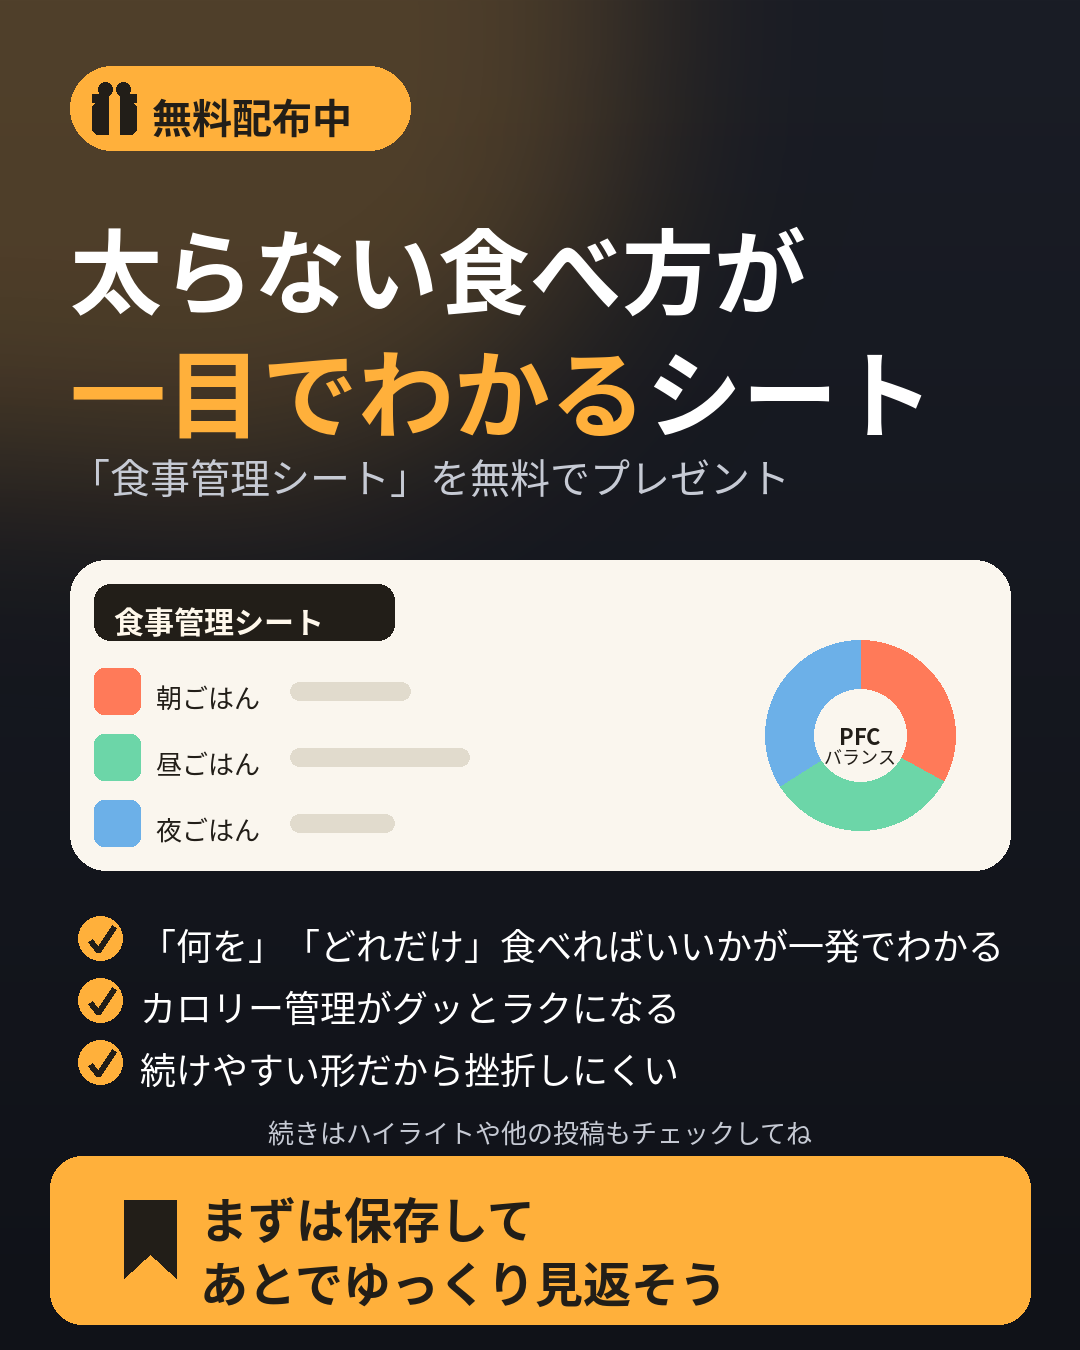
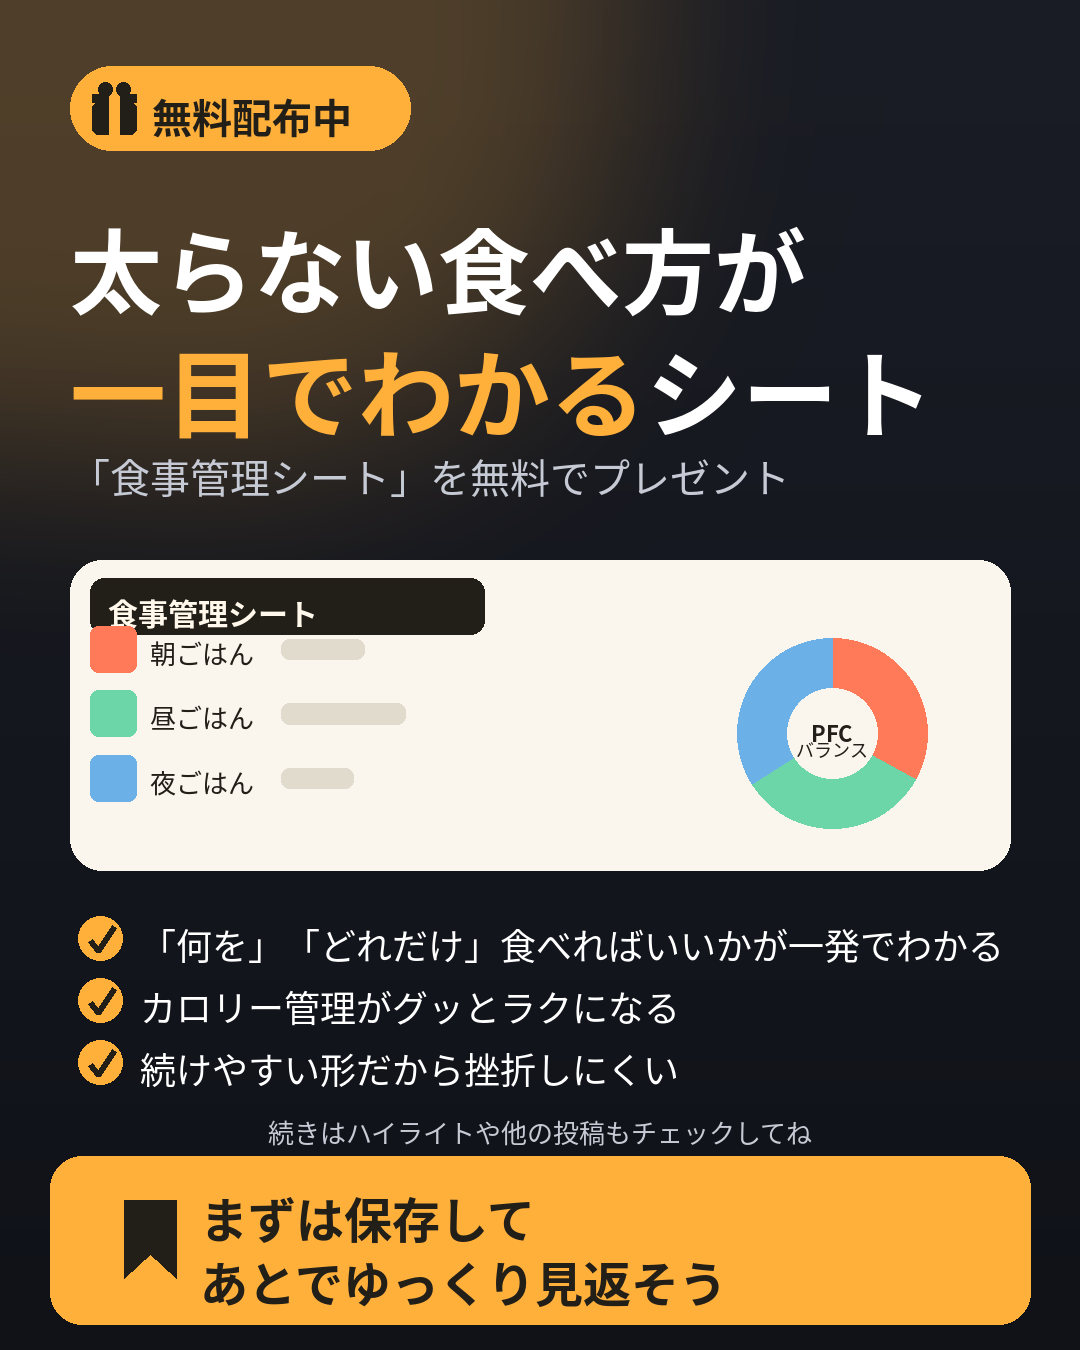
正方形(1080x1080)バージョンを追加
make_design.pyを関数化し、4:5版と正方形版を1つのスクリプトから生成できるようにした。
正方形は縦幅が少ない分、見出し・カード・箇条書きのフォントサイズと行間を詰めてバランスよく収まるよう調整。

Claude-Session: https://claude.ai/code/session_01MBoiF3BLX3zSVFEgM8onNK

Changed region(s): [[0.0611, 0.4044, 0.4583, 0.6533], [0.6722, 0.4667, 0.8861, 0.6222]]

diff --git a/assets/output/make_design.py b/assets/output/make_design.py
@@ -3,11 +3,12 @@
 イクマ - 無料プレゼント(食事管理シート)訴求グラフィック
 プロフィール最上部(固定投稿)用
 トーン: カジュアル・友達感覚 / CTA: 保存を主役に
+
+use: python3 make_design.py
+  4:5 (1080x1350) と 正方形 (1080x1080) の両方を書き出す。
 """
 import math
 from PIL import Image, ImageDraw, ImageFont, ImageFilter
-
-W, H = 1080, 1350
 
 FONT_BOLD = "/usr/share/fonts/opentype/noto/NotoSansCJK-Bold.ttc"
 FONT_REG = "/usr/share/fonts/opentype/noto/NotoSansCJK-Regular.ttc"
@@ -19,7 +20,6 @@ def font(path, size):
 NAVY_TOP = (26, 29, 38)
 NAVY_BOTTOM = (16, 18, 24)
 AMBER = (255, 176, 59)       # soft warm amber (replaces hard gold-foil)
-AMBER_DEEP = (230, 140, 30)
 CREAM = (255, 248, 235)
 WHITE = (255, 255, 255)
 SOFT_GRAY = (198, 202, 212)
@@ -28,25 +28,6 @@ MINT = (108, 214, 168)
 SKY = (108, 176, 232)
 CARD_BG = (250, 246, 238)
 DARK_TEXT = (34, 30, 24)
-
-img = Image.new("RGB", (W, H), NAVY_TOP)
-draw = ImageDraw.Draw(img)
-
-# vertical gradient background
-for y in range(H):
-    t = y / H
-    r = int(NAVY_TOP[0] + (NAVY_BOTTOM[0] - NAVY_TOP[0]) * t)
-    g = int(NAVY_TOP[1] + (NAVY_BOTTOM[1] - NAVY_TOP[1]) * t)
-    b = int(NAVY_TOP[2] + (NAVY_BOTTOM[2] - NAVY_TOP[2]) * t)
-    draw.line([(0, y), (W, y)], fill=(r, g, b))
-
-# soft warm glow top-left (friendly, not aggressive gold streak)
-glow = Image.new("RGBA", (W, H), (0, 0, 0, 0))
-gdraw = ImageDraw.Draw(glow)
-gdraw.ellipse([-300, -350, 700, 550], fill=(255, 176, 59, 60))
-glow = glow.filter(ImageFilter.GaussianBlur(120))
-img.paste(Image.alpha_composite(img.convert("RGBA"), glow).convert("RGB"), (0, 0))
-draw = ImageDraw.Draw(img)
 
 def rounded_rect(d, box, radius, fill=None, outline=None, width=1):
     d.rounded_rectangle(box, radius=radius, fill=fill, outline=outline, width=width)
@@ -60,120 +41,189 @@ def draw_centered(d, cx, y, s, f, fill):
     d.text((cx - w / 2, y), s, font=f, fill=fill)
     return w
 
-# ---------------------------------------------------------------
-# 1) Top badge: "無料配布中" with simple gift icon (flat, drawn)
-# ---------------------------------------------------------------
-badge_x, badge_y, badge_w, badge_h = 70, 66, 340, 84
-rounded_rect(draw, [badge_x, badge_y, badge_x + badge_w, badge_y + badge_h], 42, fill=AMBER)
+def draw_gift_icon(draw, gx, gy):
+    draw.rounded_rectangle([gx - 22, gy - 6, gx + 22, gy + 26], 6, fill=DARK_TEXT)
+    draw.rectangle([gx - 22, gy - 14, gx + 22, gy - 6], fill=DARK_TEXT)
+    draw.rectangle([gx - 5, gy - 14, gx + 5, gy + 26], fill=AMBER)
+    draw.ellipse([gx - 16, gy - 26, gx - 2, gy - 12], fill=DARK_TEXT)
+    draw.ellipse([gx + 2, gy - 26, gx + 16, gy - 12], fill=DARK_TEXT)
 
-# gift icon (simple box + ribbon), drawn flat
-gx, gy = badge_x + 44, badge_y + 42
-draw.rounded_rectangle([gx - 22, gy - 6, gx + 22, gy + 26], 6, fill=DARK_TEXT)
-draw.rectangle([gx - 22, gy - 14, gx + 22, gy - 6], fill=DARK_TEXT)
-draw.rectangle([gx - 5, gy - 14, gx + 5, gy + 26], fill=AMBER)
-draw.ellipse([gx - 16, gy - 26, gx - 2, gy - 12], fill=DARK_TEXT)
-draw.ellipse([gx + 2, gy - 26, gx + 16, gy - 12], fill=DARK_TEXT)
+def draw_bookmark_icon(draw, bx, by2, w=26, h_top=40, h_bottom=38, notch=14):
+    draw.polygon([
+        (bx - w, by2 - h_top), (bx + w, by2 - h_top),
+        (bx + w, by2 + h_bottom), (bx, by2 + notch), (bx - w, by2 + h_bottom)
+    ], fill=DARK_TEXT)
 
-f_badge = font(FONT_BOLD, 40)
-draw.text((badge_x + 82, badge_y + 20), "無料配布中", font=f_badge, fill=DARK_TEXT)
+def draw_meal_card(draw, card_x0, card_y0, card_x1, card_y1,
+                    header_font_size, row_font_size, row_h, row_gap_top,
+                    donut_r, pfc_font_size, pfc_sub_font_size):
+    rounded_rect(draw, [card_x0, card_y0, card_x1, card_y1], 32, fill=CARD_BG)
 
-# ---------------------------------------------------------------
-# 2) Headline (casual, friendly - key words highlighted in amber)
-# ---------------------------------------------------------------
-f_h1 = font(FONT_BOLD, 92)
-f_h2 = font(FONT_BOLD, 96)
+    header_w = int((card_x1 - card_x0) * 0.42)
+    rounded_rect(draw, [card_x0 + 20, card_y0 + 18, card_x0 + 20 + header_w, card_y0 + 18 + header_font_size + 26],
+                 14, fill=(34, 30, 24))
+    f_card_h = font(FONT_BOLD, header_font_size)
+    draw.text((card_x0 + 38, card_y0 + 30), "食事管理シート", font=f_card_h, fill=CREAM)
 
-y = 200
-draw.text((70, y), "太らない食べ方が", font=f_h1, fill=WHITE)
-y += 118
-# highlight "一目でわかる" in amber, "シート" in white
-line2a = "一目でわかる"
-line2b = "シート"
-draw.text((70, y), line2a, font=f_h2, fill=AMBER)
-w2a = text_w(draw, line2a, f_h2)
-draw.text((70 + w2a, y), line2b, font=f_h2, fill=WHITE)
+    row_colors = [CORAL, MINT, SKY]
+    row_labels = ["朝ごはん", "昼ごはん", "夜ごはん"]
+    ry = card_y0 + row_gap_top
+    f_row = font(FONT_REG, row_font_size)
+    swatch = row_h
+    for i, (c, lab) in enumerate(zip(row_colors, row_labels)):
+        rx0 = card_x0 + 20
+        rx1 = rx0 + swatch
+        rounded_rect(draw, [rx0, ry, rx1, ry + swatch], 8, fill=c)
+        draw.text((rx1 + 14, ry + swatch * 0.15), lab, font=f_row, fill=DARK_TEXT)
+        bar_x0 = rx1 + int(row_font_size * 5.6)
+        bar_w = int(row_font_size * 3.2 + row_font_size * 1.6 * math.sin(i * 1.7))
+        rounded_rect(draw, [bar_x0, ry + swatch * 0.28, bar_x0 + max(row_font_size * 2, bar_w), ry + swatch * 0.72],
+                     8, fill=(225, 219, 205))
+        ry += swatch + row_gap_top * 0.28
 
-f_sub = font(FONT_REG, 40)
-y += 128
-draw.text((70, y), "「食事管理シート」を無料でプレゼント", font=f_sub, fill=SOFT_GRAY)
+    cx, cy, r = card_x1 - int((card_x1 - card_x0) * 0.19), card_y0 + int((card_y1 - card_y0) * 0.56), donut_r
+    donut_colors = [CORAL, MINT, SKY]
+    donut_vals = [0.33, 0.33, 0.34]
+    start = -90
+    for c, v in zip(donut_colors, donut_vals):
+        end = start + 360 * v
+        draw.pieslice([cx - r, cy - r, cx + r, cy + r], start, end, fill=c)
+        start = end
+    inner = int(r * 0.48)
+    draw.ellipse([cx - inner, cy - inner, cx + inner, cy + inner], fill=CARD_BG)
+    f_pfc = font(FONT_BOLD, pfc_font_size)
+    draw_centered(draw, cx, cy - pfc_font_size * 0.75, "PFC", f_pfc, DARK_TEXT)
+    draw_centered(draw, cx, cy + pfc_font_size * 0.15, "バランス", font(FONT_REG, pfc_sub_font_size), DARK_TEXT)
 
-# ---------------------------------------------------------------
-# 3) Visual mock card (flat, friendly infographic - not dark dashboard)
-# ---------------------------------------------------------------
-card_x0, card_y0, card_x1, card_y1 = 70, 560, 1010, 870
-rounded_rect(draw, [card_x0, card_y0, card_x1, card_y1], 36, fill=CARD_BG)
+def base_canvas(W, H):
+    img = Image.new("RGB", (W, H), NAVY_TOP)
+    draw = ImageDraw.Draw(img)
+    for y in range(H):
+        t = y / H
+        r = int(NAVY_TOP[0] + (NAVY_BOTTOM[0] - NAVY_TOP[0]) * t)
+        g = int(NAVY_TOP[1] + (NAVY_BOTTOM[1] - NAVY_TOP[1]) * t)
+        b = int(NAVY_TOP[2] + (NAVY_BOTTOM[2] - NAVY_TOP[2]) * t)
+        draw.line([(0, y), (W, y)], fill=(r, g, b))
 
-# card header bar
-rounded_rect(draw, [card_x0 + 24, card_y0 + 24, card_x0 + 24 + 300, card_y0 + 24 + 56], 16, fill=(34, 30, 24))
-f_card_h = font(FONT_BOLD, 30)
-draw.text((card_x0 + 44, card_y0 + 38), "食事管理シート", font=f_card_h, fill=CREAM)
+    glow = Image.new("RGBA", (W, H), (0, 0, 0, 0))
+    gdraw = ImageDraw.Draw(glow)
+    gdraw.ellipse([-300, -350, W * 0.65, H * 0.4], fill=(255, 176, 59, 60))
+    glow = glow.filter(ImageFilter.GaussianBlur(120))
+    img.paste(Image.alpha_composite(img.convert("RGBA"), glow).convert("RGB"), (0, 0))
+    return img, ImageDraw.Draw(img)
 
-# simple flat meal rows (colored bars = friendly, not spreadsheet-heavy)
-row_colors = [CORAL, MINT, SKY]
-row_labels = ["朝ごはん", "昼ごはん", "夜ごはん"]
-ry = card_y0 + 108
-f_row = font(FONT_REG, 26)
-for i, (c, lab) in enumerate(zip(row_colors, row_labels)):
-    rx0 = card_x0 + 24
-    rx1 = card_x0 + 24 + 46
-    rounded_rect(draw, [rx0, ry, rx1, ry + 46], 10, fill=c)
-    draw.text((rx1 + 16, ry + 9), lab, font=f_row, fill=DARK_TEXT)
-    bar_x0 = rx1 + 150
-    bar_w = int(120 + 60 * math.sin(i * 1.7))
-    rounded_rect(draw, [bar_x0, ry + 14, bar_x0 + max(60, bar_w), ry + 32], 9, fill=(225, 219, 205))
-    ry += 66
+def build_4x5(out_path):
+    """1080x1350 - Instagram 4:5"""
+    W, H = 1080, 1350
+    img, draw = base_canvas(W, H)
 
-# simple flat donut chart (PFC balance) on right side of the card
-cx, cy, r = card_x1 - 150, card_y0 + 175, 95
-donut_colors = [CORAL, MINT, SKY]
-donut_vals = [0.33, 0.33, 0.34]
-start = -90
-for c, v in zip(donut_colors, donut_vals):
-    end = start + 360 * v
-    draw.pieslice([cx - r, cy - r, cx + r, cy + r], start, end, fill=c)
-    start = end
-draw.ellipse([cx - 46, cy - 46, cx + 46, cy + 46], fill=CARD_BG)
-f_pfc = font(FONT_BOLD, 22)
-draw_centered(draw, cx, cy - 16, "PFC", f_pfc, DARK_TEXT)
-draw_centered(draw, cx, cy + 8, "バランス", font(FONT_REG, 18), DARK_TEXT)
+    # 1) badge
+    badge_x, badge_y, badge_w, badge_h = 70, 66, 340, 84
+    rounded_rect(draw, [badge_x, badge_y, badge_x + badge_w, badge_y + badge_h], 42, fill=AMBER)
+    draw_gift_icon(draw, badge_x + 44, badge_y + 42)
+    draw.text((badge_x + 82, badge_y + 20), "無料配布中", font=font(FONT_BOLD, 40), fill=DARK_TEXT)
 
-# ---------------------------------------------------------------
-# 4) Casual bullet list (soft, friendly - no hard-sell corporate wording)
-# ---------------------------------------------------------------
-bullets = [
-    "「何を」「どれだけ」食べればいいかが一発でわかる",
-    "カロリー管理がグッとラクになる",
-    "続けやすい形だから挫折しにくい",
-]
-by = 918
-f_bullet = font(FONT_REG, 36)
-for i, b in enumerate(bullets):
-    # check icon (simple flat circle + check mark)
-    icx, icy = 100, by + 20
-    draw.ellipse([icx - 22, icy - 22, icx + 22, icy + 22], fill=AMBER)
-    draw.line([(icx - 10, icy + 2), (icx - 2, icy + 12), (icx + 14, icy - 12)], fill=DARK_TEXT, width=6, joint="curve")
-    draw.text((140, by), b, font=f_bullet, fill=WHITE)
-    by += 62
+    # 2) headline
+    f_h1 = font(FONT_BOLD, 92)
+    f_h2 = font(FONT_BOLD, 96)
+    y = 200
+    draw.text((70, y), "太らない食べ方が", font=f_h1, fill=WHITE)
+    y += 118
+    line2a, line2b = "一目でわかる", "シート"
+    draw.text((70, y), line2a, font=f_h2, fill=AMBER)
+    draw.text((70 + text_w(draw, line2a, f_h2), y), line2b, font=f_h2, fill=WHITE)
+    y += 128
+    draw.text((70, y), "「食事管理シート」を無料でプレゼント", font=font(FONT_REG, 40), fill=SOFT_GRAY)
 
-# ---------------------------------------------------------------
-# 5) CTA banner - SAVE is the hero action (bright, high-contrast)
-# ---------------------------------------------------------------
-f_note = font(FONT_REG, 26)
-draw_centered(draw, W / 2, 1112, "続きはハイライトや他の投稿もチェックしてね", f_note, SOFT_GRAY)
+    # 3) card
+    draw_meal_card(draw, 70, 560, 1010, 870,
+                    header_font_size=30, row_font_size=26, row_h=46, row_gap_top=66,
+                    donut_r=95, pfc_font_size=22, pfc_sub_font_size=18)
 
-cta_y0, cta_y1 = 1156, 1324
-rounded_rect(draw, [50, cta_y0, W - 50, cta_y1], 32, fill=AMBER)
+    # 4) bullets
+    bullets = [
+        "「何を」「どれだけ」食べればいいかが一発でわかる",
+        "カロリー管理がグッとラクになる",
+        "続けやすい形だから挫折しにくい",
+    ]
+    by = 918
+    f_bullet = font(FONT_REG, 36)
+    for b in bullets:
+        icx, icy = 100, by + 20
+        draw.ellipse([icx - 22, icy - 22, icx + 22, icy + 22], fill=AMBER)
+        draw.line([(icx - 10, icy + 2), (icx - 2, icy + 12), (icx + 14, icy - 12)], fill=DARK_TEXT, width=6, joint="curve")
+        draw.text((140, by), b, font=f_bullet, fill=WHITE)
+        by += 62
 
-# bookmark icon (flat, drawn)
-bx, by2 = 150, (cta_y0 + cta_y1) / 2
-draw.polygon([
-    (bx - 26, by2 - 40), (bx + 26, by2 - 40),
-    (bx + 26, by2 + 38), (bx, by2 + 14), (bx - 26, by2 + 38)
-], fill=DARK_TEXT)
+    # 5) CTA
+    draw_centered(draw, W / 2, 1112, "続きはハイライトや他の投稿もチェックしてね", font(FONT_REG, 26), SOFT_GRAY)
+    cta_y0, cta_y1 = 1156, 1324
+    rounded_rect(draw, [50, cta_y0, W - 50, cta_y1], 32, fill=AMBER)
+    draw_bookmark_icon(draw, 150, (cta_y0 + cta_y1) / 2)
+    f_cta1 = font(FONT_BOLD, 48)
+    draw.text((200, cta_y0 + 26), "まずは保存して", font=f_cta1, fill=DARK_TEXT)
+    draw.text((200, cta_y0 + 90), "あとでゆっくり見返そう", font=f_cta1, fill=DARK_TEXT)
 
-f_cta1 = font(FONT_BOLD, 48)
-draw.text((200, cta_y0 + 26), "まずは保存して", font=f_cta1, fill=DARK_TEXT)
-draw.text((200, cta_y0 + 90), "あとでゆっくり見返そう", font=f_cta1, fill=DARK_TEXT)
+    img.save(out_path)
 
-img.save("/tmp/claude-0/-home-user--/824df36a-24c4-50ee-ae8d-5bbd9b96e45c/scratchpad/freebie_pinned_v1.png")
-print("done")
+def build_square(out_path):
+    """1080x1080 - Instagram square. レイアウトを詰め、文字サイズを一段階小さくして正方形に収める。"""
+    W, H = 1080, 1080
+    img, draw = base_canvas(W, H)
+
+    # 1) badge (小さめ)
+    badge_x, badge_y, badge_w, badge_h = 60, 44, 296, 70
+    rounded_rect(draw, [badge_x, badge_y, badge_x + badge_w, badge_y + badge_h], 35, fill=AMBER)
+    draw_gift_icon(draw, badge_x + 38, badge_y + 35)
+    draw.text((badge_x + 70, badge_y + 15), "無料配布中", font=font(FONT_BOLD, 34), fill=DARK_TEXT)
+
+    # 2) headline (2行に圧縮、フォント少し小さく、行間も詰める)
+    f_h1 = font(FONT_BOLD, 70)
+    f_h2 = font(FONT_BOLD, 74)
+    y = 136
+    draw.text((60, y), "太らない食べ方が", font=f_h1, fill=WHITE)
+    y += 88
+    line2a, line2b = "一目でわかる", "シート"
+    draw.text((60, y), line2a, font=f_h2, fill=AMBER)
+    draw.text((60 + text_w(draw, line2a, f_h2), y), line2b, font=f_h2, fill=WHITE)
+    y += 82
+    draw.text((60, y), "「食事管理シート」を無料でプレゼント", font=font(FONT_REG, 30), fill=SOFT_GRAY)
+
+    # 3) card (少しコンパクトに)
+    card_y0, card_y1 = 366, 578
+    draw_meal_card(draw, 60, card_y0, 1020, card_y1,
+                    header_font_size=24, row_font_size=21, row_h=36, row_gap_top=50,
+                    donut_r=74, pfc_font_size=18, pfc_sub_font_size=14)
+
+    # 4) bullets (行間・フォントを詰める)
+    bullets = [
+        "「何を」「どれだけ」食べればいいかが一発でわかる",
+        "カロリー管理がグッとラクになる",
+        "続けやすい形だから挫折しにくい",
+    ]
+    by = 612
+    f_bullet = font(FONT_REG, 27)
+    for b in bullets:
+        icx, icy = 82, by + 15
+        draw.ellipse([icx - 17, icy - 17, icx + 17, icy + 17], fill=AMBER)
+        draw.line([(icx - 8, icy + 1), (icx - 2, icy + 9), (icx + 11, icy - 9)], fill=DARK_TEXT, width=5, joint="curve")
+        draw.text((114, by), b, font=f_bullet, fill=WHITE)
+        by += 46
+
+    # 5) CTA (下端まで詰めて配置、余白は最小限に)
+    draw_centered(draw, W / 2, 784, "続きはハイライトや他の投稿もチェックしてね", font(FONT_REG, 20), SOFT_GRAY)
+    cta_y0, cta_y1 = 818, 1058
+    rounded_rect(draw, [50, cta_y0, W - 50, cta_y1], 28, fill=AMBER)
+    draw_bookmark_icon(draw, 138, (cta_y0 + cta_y1) / 2, w=22, h_top=34, h_bottom=32, notch=12)
+    f_cta1 = font(FONT_BOLD, 40)
+    draw.text((182, cta_y0 + 34), "まずは保存して", font=f_cta1, fill=DARK_TEXT)
+    draw.text((182, cta_y0 + 88), "あとでゆっくり見返そう", font=f_cta1, fill=DARK_TEXT)
+
+    img.save(out_path)
+
+if __name__ == "__main__":
+    import os
+    out_dir = os.path.dirname(os.path.abspath(__file__))
+    build_4x5(os.path.join(out_dir, "freebie-pinned-post.png"))
+    build_square(os.path.join(out_dir, "freebie-pinned-post-square.png"))
+    print("done")
